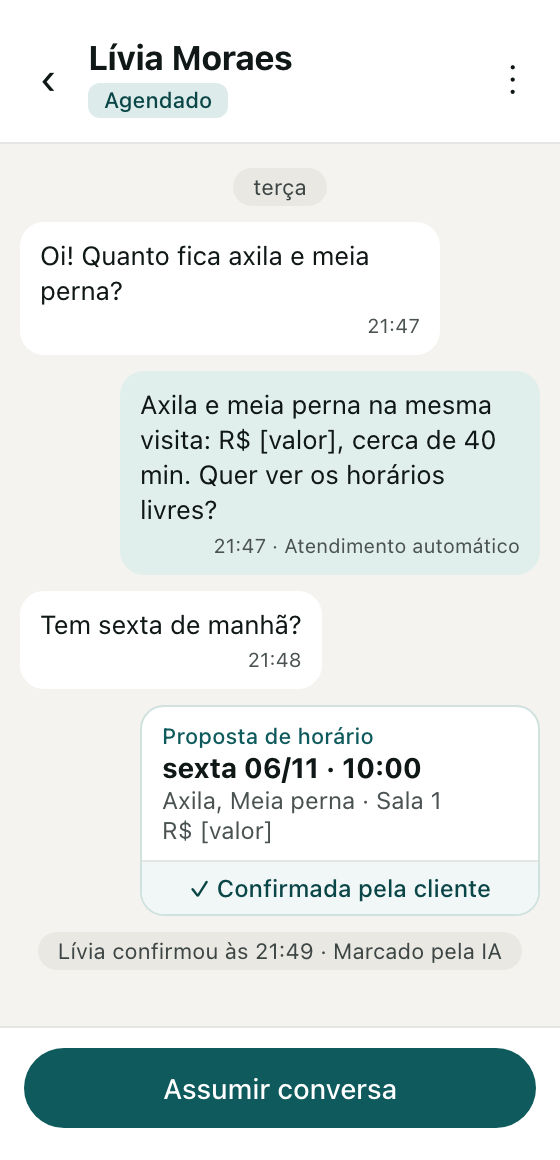
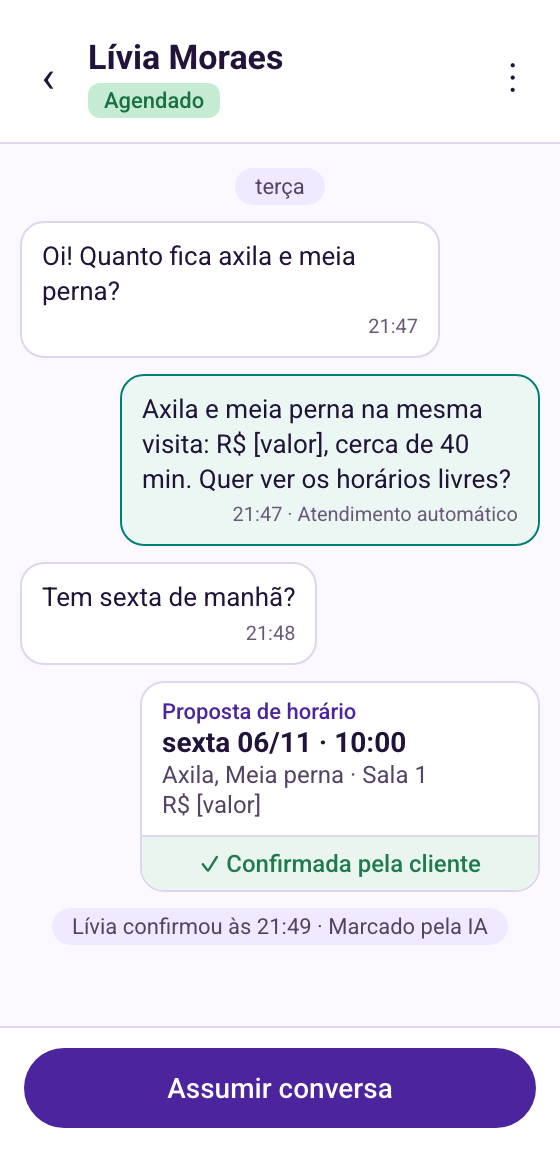
feat(site): capturas do app na landing com os tokens v0.12.0
- capturas.css importa docs/design/tokens.css e usa só variáveis: sai o
  petróleo e o damasco fixos da marca antiga
- Telas como no painel: Agendar em lima com contorno, primário violeta,
  «Marcado pela IA» em petróleo, «Precisa de alguém» em âmbar, «Agendado» na
  cor da etapa, atendente em areia
- conversa.html: etiqueta «Agendado» com a classe da etapa
- PNG regenerados com gerar.sh; conteúdo das telas igual

Confirmado por Paulo em 23/11/2026. Empilhado sobre #1038 (tokens v0.12.0).

diff --git a/site/capturas/capturas.css b/site/capturas/capturas.css
@@ -1,75 +1,81 @@
-/* Capturas PROVISÓRIAS da landing (04/11/2026): desenho das telas do painel com dados fictícios.
-   Substituir por capturas do aplicativo real com o seed da landing (ver docs/product/landing.md).
-   Roboto do painel (DEC-073), vinda do node_modules da raiz do repositório. */
+/* Capturas PROVISÓRIAS da landing (04/11/2026; cores ligadas aos tokens v0.12.0 em 23/11/2026):
+   desenho das telas do painel com dados fictícios. Só tokens de docs/design/tokens.css, para as telas
+   acompanharem o painel. Substituir por capturas do aplicativo real com o seed da landing
+   (ver docs/product/landing.md). Roboto do painel (DEC-073), vinda do node_modules da raiz. */
+@import url("../../docs/design/tokens.css");
 @import url("../../node_modules/@fontsource/roboto/400.css");
 @import url("../../node_modules/@fontsource/roboto/500.css");
 @import url("../../node_modules/@fontsource/roboto/700.css");
 
 * { box-sizing: border-box; }
 html, body { margin: 0; }
-body { font-family: Roboto, system-ui, sans-serif; color: #101817; -webkit-font-smoothing: antialiased; }
+body { font-family: Roboto, system-ui, sans-serif; color: var(--color-text-primary); -webkit-font-smoothing: antialiased; }
 p { margin: 0; }
-.tela { width: 280px; height: 580px; background: #FFFFFF; display: flex; flex-direction: column; overflow: hidden; }
-.tela.creme { background: #F4F3EF; }
+.tela { width: 280px; height: 580px; background: var(--color-surface-card); display: flex; flex-direction: column; overflow: hidden; }
+.tela.creme { background: var(--color-surface-app); }
 
-.topo { display: flex; align-items: center; gap: 10px; padding: 18px 14px 12px; background: #FFFFFF; border-bottom: 1px solid #E4E6E3; }
+.topo { display: flex; align-items: center; gap: 10px; padding: 18px 14px 12px; background: var(--color-surface-card); border-bottom: 1px solid var(--color-line-border); }
 .agenda-topo { justify-content: space-between; border-bottom: 0; padding-bottom: 6px; }
-.logo { width: 30px; height: 30px; border-radius: 8px; background: #0E5A5C; color: #FFFFFF; font-weight: 700; font-size: 14px; display: flex; align-items: center; justify-content: center; }
+.logo { width: 30px; height: 30px; border-radius: 8px; background: var(--color-nav-base); color: var(--color-nav-icon-active); font-weight: 700; font-size: 14px; display: flex; align-items: center; justify-content: center; }
 .titulo { flex: 1; display: flex; flex-direction: column; align-items: flex-start; gap: 2px; line-height: 1.25; }
 .titulo b { font-size: 17px; font-weight: 700; }
-.titulo small { font-size: 12px; color: #4A5352; }
-.vivo { color: #1F7A4D; }
-.eu { width: 30px; height: 30px; border-radius: 50%; background: #E9E4F7; color: #4B2E9A; font-size: 11px; font-weight: 700; display: flex; align-items: center; justify-content: center; }
+.titulo small { font-size: 12px; color: var(--color-text-secondary); }
+.vivo { color: var(--color-success-ink); }
+.eu { width: 30px; height: 30px; border-radius: 50%; background: var(--color-person-avatar); color: var(--color-person-ink); font-size: 11px; font-weight: 700; display: flex; align-items: center; justify-content: center; }
 .voltar, .mais { font-size: 22px; line-height: 1; width: 20px; text-align: center; }
 
 .chips { display: flex; gap: 6px; padding: 10px 14px; overflow: hidden; }
-.chips.branco { background: #FFFFFF; padding-top: 4px; border-bottom: 1px solid #E4E6E3; }
-.chip { flex: none; padding: 5px 10px; border-radius: 999px; border: 1px solid #B8BEBC; font-size: 12px; font-weight: 500; }
-.chip.on { background: #101817; border-color: #101817; color: #FFFFFF; }
+.chips.branco { background: var(--color-surface-card); padding-top: 4px; border-bottom: 1px solid var(--color-line-border); }
+.chip { flex: none; padding: 5px 10px; border-radius: 999px; border: 1px solid var(--color-line-control); font-size: 12px; font-weight: 500; }
+.chip.on { background: var(--color-text-primary); border-color: var(--color-text-primary); color: var(--color-surface-card); }
 
 .lista { flex: 1; }
-.linha { display: flex; gap: 10px; padding: 12px 14px; border-top: 1px solid #EEF0EE; }
-.linha.alerta { background: #FFF7F2; }
-.av { flex: none; width: 34px; height: 34px; border-radius: 50%; background: #EEF0EE; font-size: 12px; font-weight: 700; display: flex; align-items: center; justify-content: center; }
-.av.damasco { background: #E8875A; }
-.av.petroleo { background: #0E5A5C; color: #FFFFFF; }
+.linha { display: flex; gap: 10px; padding: 12px 14px; border-top: 1px solid var(--color-line-divider); }
+.linha.alerta { background: var(--color-warning-tint); }
+.av { flex: none; width: 34px; height: 34px; border-radius: 50%; background: var(--color-primary-tint); color: var(--color-primary-ink); font-size: 12px; font-weight: 700; display: flex; align-items: center; justify-content: center; }
+.av.damasco { background: var(--color-attention-base); color: var(--color-attention-on-base); }
+.av.petroleo { background: var(--color-primary-fill); color: var(--color-primary-on-fill); }
 .corpo { flex: 1; min-width: 0; display: flex; flex-direction: column; align-items: flex-start; gap: 3px; }
 .l1 { align-self: stretch; display: flex; justify-content: space-between; }
 .l1 b { font-size: 14px; }
-.l1 small { font-size: 11px; color: #4A5352; }
-.txt { align-self: stretch; font-size: 13px; color: #4A5352; white-space: nowrap; overflow: hidden; text-overflow: ellipsis; }
-.tag { margin-top: 3px; padding: 2px 8px; border-radius: 6px; font-size: 11px; font-weight: 500; background: #EEF0EE; color: #3D4645; }
-.tag.escura { background: #101817; color: #FFFFFF; }
-.tag.ia { background: #DDECEB; color: #0A4547; margin-top: 0; }
+.l1 small { font-size: 11px; color: var(--color-text-secondary); }
+.txt { align-self: stretch; font-size: 13px; color: var(--color-text-secondary); white-space: nowrap; overflow: hidden; text-overflow: ellipsis; }
+.tag { margin-top: 3px; padding: 2px 8px; border-radius: 6px; font-size: 11px; font-weight: 500; background: var(--color-surface-sunken); color: var(--color-text-secondary); }
+/* «Precisa de alguém»: atenção (âmbar cheio), como no painel. */
+.tag.escura { background: var(--color-attention-base); color: var(--color-attention-on-base); font-weight: 700; }
+/* «Marcado pela IA»: a cor da IA (petróleo). «Agendado»: a cor da etapa. */
+.tag.ia { background: var(--color-ai-tint); color: var(--color-ai-ink); border: 1px solid var(--color-ai-border); margin-top: 0; }
+.tag.agendado { background: var(--color-stage-agendado-tint); color: var(--color-stage-agendado-ink); margin-top: 0; }
 
-.abas { display: grid; grid-template-columns: repeat(4, 1fr); border-top: 1px solid #E4E6E3; padding: 12px 4px 16px; font-size: 11px; text-align: center; color: #4A5352; background: #FFFFFF; }
-.abas .on { color: #0E5A5C; font-weight: 700; }
+.abas { display: grid; grid-template-columns: repeat(4, 1fr); border-top: 1px solid var(--color-line-border); padding: 12px 4px 16px; font-size: 11px; text-align: center; color: var(--color-text-secondary); background: var(--color-surface-card); }
+.abas .on { color: var(--color-primary-ink); font-weight: 700; }
 
 .mensagens { flex: 1; display: flex; flex-direction: column; gap: 8px; padding: 12px 10px; }
-.dia { align-self: center; padding: 3px 10px; border-radius: 999px; background: #E9E8E2; font-size: 11px; color: #3D4645; }
+.dia { align-self: center; padding: 3px 10px; border-radius: 999px; background: var(--color-surface-sunken); font-size: 11px; color: var(--color-text-secondary); }
 .msg { max-width: 210px; padding: 8px 10px; border-radius: 12px; font-size: 13px; line-height: 1.35; }
-.msg small { display: block; text-align: right; font-size: 10px; color: #4A5352; margin-top: 2px; }
-.msg.dela { align-self: flex-start; background: #FFFFFF; }
-.msg.nossa { align-self: flex-end; background: #E1EFEC; }
-.proposta { align-self: flex-end; width: 200px; background: #FFFFFF; border: 1px solid #CFE2DF; border-radius: 12px; overflow: hidden; font-size: 12px; }
-.proposta div { padding: 8px 10px; display: flex; flex-direction: column; gap: 1px; color: #4A5352; }
-.proposta small { font-size: 11px; color: #0E5A5C; font-weight: 500; }
-.proposta b { font-size: 14px; color: #101817; }
-.proposta p { padding: 6px; text-align: center; border-top: 1px solid #E4E6E3; background: #F1F7F6; color: #0A4547; font-weight: 500; }
-.rodape { padding: 10px 12px 16px; background: #FFFFFF; border-top: 1px solid #E4E6E3; }
-.assumir { display: flex; align-items: center; justify-content: center; height: 40px; border-radius: 999px; background: #0E5A5C; color: #FFFFFF; font-size: 14px; font-weight: 500; }
+.msg small { display: block; text-align: right; font-size: 10px; color: var(--color-text-muted); margin-top: 2px; }
+.msg.dela { align-self: flex-start; background: var(--color-surface-card); border: 1px solid var(--color-line-border); }
+.msg.nossa { align-self: flex-end; background: var(--color-ai-tint); border: 1px solid var(--color-ai-border); }
+.proposta { align-self: flex-end; width: 200px; background: var(--color-surface-card); border: 1px solid var(--color-line-border); border-radius: 12px; overflow: hidden; font-size: 12px; }
+.proposta div { padding: 8px 10px; display: flex; flex-direction: column; gap: 1px; color: var(--color-text-secondary); }
+.proposta small { font-size: 11px; color: var(--color-primary-ink); font-weight: 500; }
+.proposta b { font-size: 14px; color: var(--color-text-primary); }
+.proposta p { padding: 6px; text-align: center; border-top: 1px solid var(--color-line-border); background: var(--color-success-tint); color: var(--color-success-ink); font-weight: 500; }
+.rodape { padding: 10px 12px 16px; background: var(--color-surface-card); border-top: 1px solid var(--color-line-border); }
+.assumir { display: flex; align-items: center; justify-content: center; height: 40px; border-radius: 999px; background: var(--color-primary-fill); color: var(--color-primary-on-fill); font-size: 14px; font-weight: 500; }
 
 .dia-lista { flex: 1; display: flex; flex-direction: column; gap: 8px; padding: 12px 10px; }
 .slot { display: grid; grid-template-columns: 40px 1fr; gap: 8px; align-items: start; }
 .h { font-size: 12px; font-weight: 500; padding-top: 8px; }
-.h.forte { font-weight: 700; color: #0E5A5C; }
-.ev { padding: 8px 10px; border-radius: 10px; background: #E8F1F0; border: 1px solid #CFE2DF; font-size: 12px; line-height: 1.4; }
+.h.forte { font-weight: 700; color: var(--color-primary-ink); }
+.ev { padding: 8px 10px; border-radius: 10px; background: var(--color-surface-card); border: 1px solid var(--color-line-border); font-size: 12px; line-height: 1.4; }
 .ev b { display: block; font-size: 13px; }
-.ev.destaque { background: #0E5A5C; border-color: #0E5A5C; color: #FFFFFF; }
-.ev.destaque span { color: #DCE9E8; }
-.ev.destaque i { display: inline-block; margin-top: 5px; padding: 1px 7px; border-radius: 5px; background: #E8875A; color: #101817; font-size: 11px; font-weight: 500; font-style: normal; }
-.ev.cinza { background: #EAE9E4; border-color: #DAD8D1; color: #3D4645; }
-.ev.cinza b { color: #101817; }
-.ev.livre { display: flex; justify-content: space-between; align-items: center; background: #FFFFFF; border: 1.5px dashed #A9B1AF; color: #4A5352; }
-.ev.livre b { color: #101817; }
-.ev.livre em { font-style: normal; font-weight: 700; color: #0E5A5C; }
+.ev.destaque { background: var(--color-primary-fill); border-color: var(--color-primary-fill); color: var(--color-primary-on-fill); }
+.ev.destaque span { color: var(--color-primary-tint); }
+.ev.destaque i { display: inline-block; margin-top: 5px; padding: 1px 7px; border-radius: 5px; background: var(--color-ai-tint); color: var(--color-ai-ink); font-size: 11px; font-weight: 500; font-style: normal; }
+.ev.cinza { background: var(--color-surface-sunken); border-color: var(--color-line-border); color: var(--color-text-secondary); }
+.ev.cinza b { color: var(--color-text-primary); }
+.ev.livre { display: flex; justify-content: space-between; align-items: center; background: var(--color-surface-card); border: 1.5px dashed var(--color-line-control); color: var(--color-text-secondary); }
+.ev.livre b { color: var(--color-text-primary); }
+/* «Agendar»: a ação principal em lima com contorno (accent.*), como no painel. */
+.ev.livre em { font-style: normal; font-weight: 700; padding: 5px 10px; border-radius: 8px; background: var(--color-accent-fill); color: var(--color-accent-on-fill); box-shadow: inset 0 0 0 1.5px var(--color-accent-border); }

diff --git a/site/capturas/conversa.html b/site/capturas/conversa.html
@@ -9,7 +9,7 @@
 <div class="tela creme">
 <header class="topo">
 <span class="voltar">‹</span>
-<span class="titulo"><b>Lívia Moraes</b><span class="tag ia">Agendado</span></span>
+<span class="titulo"><b>Lívia Moraes</b><span class="tag agendado">Agendado</span></span>
 <span class="mais">⋮</span>
 </header>
 <div class="mensagens">

diff --git a/docs/product/landing.md b/docs/product/landing.md
@@ -178,6 +178,9 @@ Verificado em 23/11/2026: `astro build` e `astro check` sem erros, e o preview l
 
 Verificado em 23/11/2026: `astro build` e `astro check` sem erros; axe (contraste) sem violações e sem rolagem horizontal em 360, 390 e 1440 px; contrastes calculados nos pontos críticos entre 7,3:1 e 17,3:1. Na revisão visual apareceram os rótulos da tabela de planos no celular (`td::before`), que o axe não mede; ficaram `#DCCBFF` (10,2:1). **Em aberto:** percorrer a página com Tab, ver o lima em celular de verdade e sob sol, Lighthouse, e decidir se o violeta chega à marca, ao app e à imagem de partilha. Mock em `docs/design/landing` e previews seguem na paleta antiga.
 
+
+**Capturas do app na landing (23/11/2026, Confirmado, Paulo: «atualiza os screenshots do app com os novos tokens»):** as três telas (`site/src/assets/app/conversas.png`, `conversa.png`, `agenda.png`) foram geradas de novo com `site/capturas/gerar.sh`. O `capturas.css` deixou de ter cores fixas da marca antiga (petróleo `#0E5A5C`, damasco) e passa a importar `docs/design/tokens.css` (v0.12.0), então as telas acompanham o painel: **Agendar** em lima com contorno (no horário livre da agenda), primário violeta, «Marcado pela IA» em petróleo, «Precisa de alguém» em âmbar, «Agendado» na cor da etapa, avatar da atendente em areia. O conteúdo das telas não mudou. Continuam **provisórias**: desenho em HTML com dados fictícios, não captura do aplicativo real.
+
 ## Badge do hero sem «Em piloto» (19/11/2026)
 
 **Confirmado** (Paulo Santos, 19/11/2026, America/Sao_Paulo, screenshot): o pill do hero deixa de dizer «Em piloto · …». Texto final em `site/src/pages/index.astro`: desktop/largo «clínicas de estética e depilação»; abaixo de 520px «estética e depilação».
